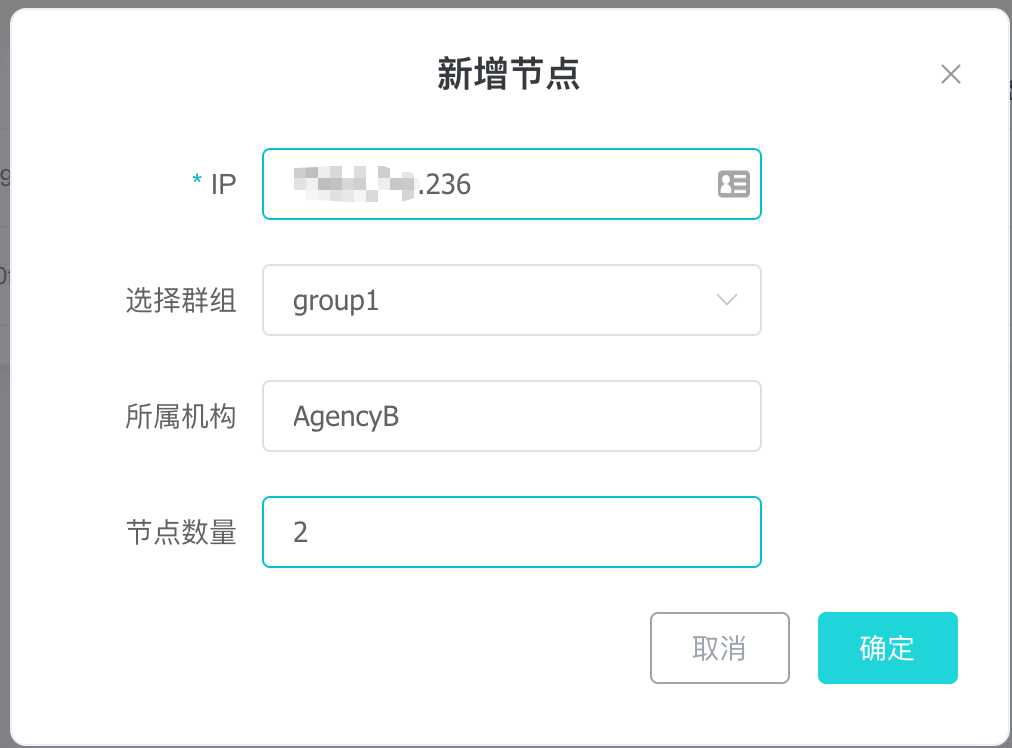
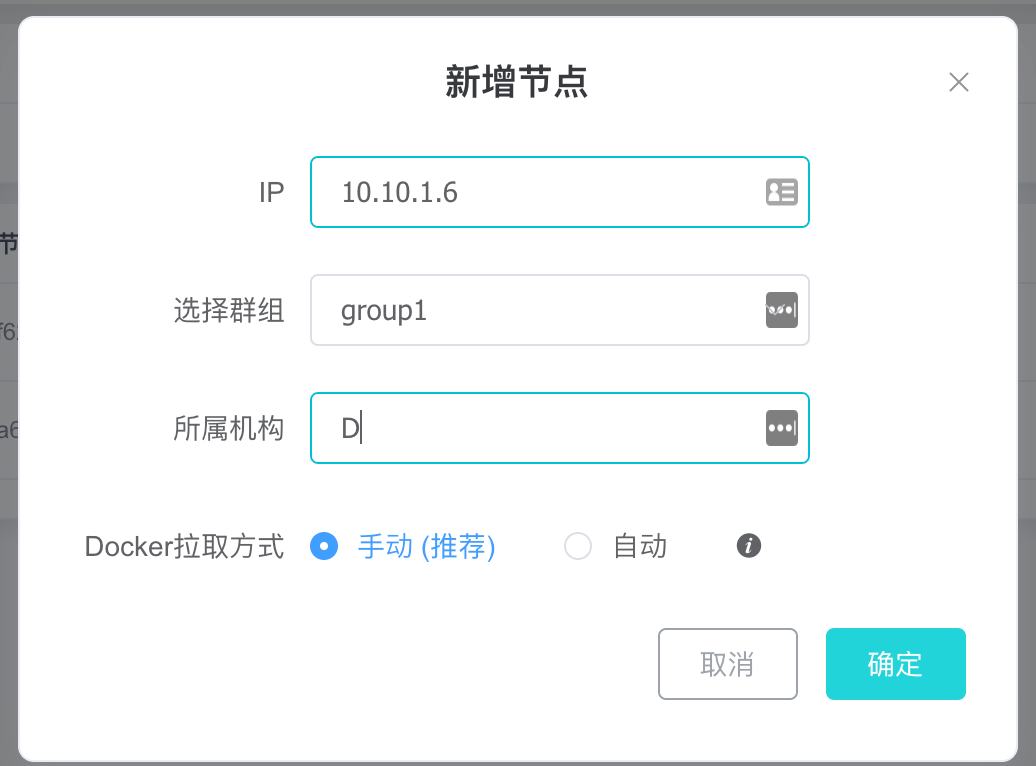
refact

diff --git a/docs/WeBASE-Install/visual_deploy.md b/docs/WeBASE-Install/visual_deploy.md
@@ -4,30 +4,103 @@
 
 1. 部署区块链底层服务；
 2. 新增，删除节点；
-3. 启动，停止节点
-4. 变更节点类型（共识，观察，游离）
-5. 群组和节点管理；
-6. 区块链版本升级；
-7. 删除区块链服务；
+3. 变更节点类型（共识，观察，游离）
+4. 启动，停止节点
+5. 群组和节点可视化管理；
+6. 重置区块链服务；
+
+### 环境准备
+
+在进行可视化部署之前，请按照部署要求，准备相应的部署环境。
+
+#### 主机数量
+当前可视化部署对主机数量，搭建一个 4 节点的区块链服务至少需要 5 台主机。
+
+其中一台主机部署签名服务(WeBASE-Sign)，节点管理平台(WeBASE-Web)和节点管理服务(WeBASE-Node-Manager)；
+
+剩余四台主机每台部署一个区块链节点服务。
+
+#### 操作系统要求
+由于在部署区块链底层节点（FISCO-BCOS）服务时，需要使用 Docker 服务，针对部署节点的主机需要选择合适的操作系统：
+
+| 操作系统 | 最低要求 |
+| ---- | -------- |
+| CentOS / RHEL | CentOS 7.3 |
+| Debian | Stretch 9  |
+| Ubuntu | Xenial 16.04 |
+
+#### 安装 Docker
+
+如果是云服务器，推荐使用**操作系统镜像模板**的方式创建主机。
+
+在一台主机上安装 Docker 后，对这个操作系统做一个镜像模板，然后通过这个模板镜像来初始化创建主机，这样新创建的主机就自带了 Docker 服务。
+
+安装 Docker 服务，请参考 [常见问题](#) 。
+
+#### SSH 免密登录
+
+在部署时，WeBASE-Node-Manager 服务会生成相应的配置文件，然后使用`scp` 命令通过 SSH 免密登录将配置文件发送到对应的主机。
+
+1. 配置 WeBASE-Node-Manager 主机到其它节点主机的 SSH 免密登录；
+
+2. 注意免密登录的账号权限，否则会造成创建文件目录，Docker 命令执行失败；
+
+##### SSH 免密登录配置
+
+* 使用 SSH 登录 WeBASE-Node-Manager 主机：`ssh root@[IP]`
+
+* 检查 `~/.ssh/` 目录是否已经存在 `id_rsa.pub` 公钥文件
+    * 如果存在，则进行下一步；
+    * 如果不存在，执行命令 `ssh-keygen`，然后直接两次回车即可生成（提示输入密码时，直接回车即可）；
+* 使用 `ssh-copy-id -o StrictHostKeyChecking=no -i ~/.ssh/id_rsa.pub root@[IP]` 命令，将公钥文件上传到需要免密登录的主机（替换 [IP] 为主机的 IP 地址），然后输入主机密码即可
+
+* 输出结果出现 `Number of key(s) added: 1` 结果，表示免密登录配置成功
+
+* 执行命令 `ssh -o StrictHostKeyChecking=no root@[IP]`，检查是否能成功登录主机
 
 
+#### 手动拉取镜像
+虽然可视化自动部署功能提供了自动从 Docker 仓库拉取镜像的功能，但是由于网络原因，拉取镜像的速度不仅很慢，同时很大概率会拉取失败。
 
-### 部署方式
-可视化部署主要包含两种部署方式：**单机部署**和**多机部署**；
+**为了保证部署过程顺利和快速完成，强烈推荐在部署前，手动拉取镜像，然后上传到部署节点服务的主机。**
 
-两种部署方式最大的区别在于**拷贝文件**和**操作节点**的方式不同。
+##### 手动拉取 Docker 镜像
 
-* **单机部署：**
-    * 指部署 WeBASE-Node-Manager 的主机和部署节点的主机是**同一台**；
-    * 使用 `cp` 命令拷贝文件；
-    * 本地调用 `docker command` 操作节点；
+手动拉取 Docker 镜像版本的方式有两种，**本地拉取过镜像**和**本地没有拉去过镜像**。
 
-* **多机部署：**
-    * 是指部署 WeBASE-Node-Manager 的主机和部署节点的主机是**多台**；
-    * 使用 `scp` 命令拷贝文件；
-    * 通过 SSH 远程登录主机后执行 `docker command` 命令操作节点；
+* 本地没有拉取过镜像
+    * 如果本地没有拉去过镜像，只能通过 `docker pull` 拉取
+    
+```Bash
+# 需要主机已经安装了 Docker 服务
+# 替换 {version} 为需要拉取的镜像版本
+docker pull fiscoorg/fisco-webase:{version}
+```
 
-### 实现原理
+* 本地已经拉取过镜像
+    * 如果本地某台主机已经存在镜像和对应的版本，可以通过将镜像压缩成一个 tar 文件，然后通过 `scp` 传输到相应主机，再解压 tar 文件即可；
+    
+```Bash
+# 保存 tar 文件
+# 替换 {version} 为需要拉取的镜像版本
+docker save -o fisco-webase.tar fiscoorg/fisco-webase:{version}
+
+# 传输到主机
+scp fisco-webase.tar root@[IP]:/root/
+
+# 解压 tar 文件
+docker lod -i fisco-webase.tar
+
+# 检查是否存在相应版本的镜像
+docker images -a |grep -i "fiscoorg/fisco-webase"
+``` 
+
+关于镜像版本，请参考：[https://hub.docker.com/r/fiscoorg/fisco-webase/tags](https://hub.docker.com/r/fiscoorg/fisco-webase/tags)
+
+其中以 -gm 结尾的标识国密版本。
+
+
+### 可视化部署实现原理
 可视化部署的实现原理如下：
 
 * WeBASE-Node-Manager 根据填写的主机，调用初始化脚本，通过 SSH 远程登录每台主机，初始化主机环境，包括安装 `Docker`，`wget`，`curl` 等服务；
@@ -42,81 +115,68 @@
 
 * 新增节点时，通过调用 `gen_node_cert.sh` 脚本根据机构的私钥生成节点的私钥和证书； 
 
-### 注意事项
-#### 兼容性
-* 可视化部署是 WeBASE 1.4.0 版本提供的功能，暂时不支持前向兼容。所以，如果需要体验可视化部署，只能部署新的区块链服务；
-* 由于可视化部署处于版本迭代中，所以在部署 **节点管理服务 WeBASE-Node-Manager**  时，需要使用 `dev-deploy` 代码分支；
-* 如果执行可视化部署时，有任何的问题，欢迎提交 issue 或者提交 PR；
-
-#### 操作系统
-由于在部署区块链底层节点（FISCO-BCOS）服务时，需要使用 Docker 服务，针对部署节点的主机需要选择合适的操作系统：
-
-| 操作系统 | 最低要求 |
-| ---- | -------- |
-| CentOS / RHEL | CentOS 7.3 |
-| Debian | Stretch 9  |
-| Ubuntu | Xenial 16.04 |
-
-#### 节点的最大部署数量
-* 采用单机部署，单机内存至少需要 **4GB 及以上**，并且部署**节点数量最大为 4 个；**
-
-* 采用多主机部署，一个运行节点需要占用大概 `0.6GB` 内存。**比如，一台 2G 内存的主机，最多只能部署 3 个节点；**
-
-#### SSH 免密登录
-**注意：仅仅是针对多机部署方式，如果采用单机部署，可忽略**
-
-在多机部署时，会使用 SSH 免密登录节点主机，所以需要在部署前完成如下配置：
-
-1. 配置 WeBASE-Node-Manager 主机到其它节点主机的 SSH 免密登录；
-
-2. 注意免密登录的账号权限，否则会造成创建文件目录失败，Docker 命令执行失败等；
-
-关于 SSH 密码登录配置，请参考：[SSH 免密登录主机配置](https://www.jianshu.com/p/079740a82623)
-
-#### 网络问题
-由于网络原因，在初始化主机安装 Docker 服务，拉取 Docker 镜像，`build_chain.sh` 从 Github 下载 tassl 国密包时，大概率会出现网络断开导致失败。
-
-**所以，为了保证部署过程顺利完成，建议优先参考[常见问题]()，手动进行部分操作。**
-
 ### 部署依赖服务
 
 #### 签名服务
 
 WeBASE-Sign 作为区块链的私钥管理服务，管理发送交易时所需要的私钥。
 
-在可视化的部署后，在对节点进行游离、共识和观察操作时（通过发送一笔交易实现），此时需要提供一个私钥来发送变更交易。所以需要部署一个 WeBASE-Sign 服务，来管理发送交易所需要的私钥账户。
+在可视化的部署后，在对节点进行游离、共识和观察操作时（通过发送一笔交易实现），需要提供一个私钥来发送变更交易。所以需要部署 WeBASE-Sign 服务，来管理发送交易所需要的私钥账户。
 
 * 参考 [签名服务 WeBASE-Sign 部署文档](../WeBASE-Sign/install.html#id1) 优先部署 WeBASE-Sign 服务。
-
->**注意：**
->
-> * 采用单机部署方式时，如果部署多个节点，节点的 WeBASE-Front 端口会从 `5002` 根据部署节点个数依次递增。而 WeBASE-Sign 默认监听在 `5004` 端口，所以当采用单机不是，超过 3 个节点时，会造成端口冲突，**建议采用单机部署时，修改 WeBASE-Sign 的默认监听地址为 6004**。
-
 
 #### 节点管理服务
 WeBASE-Node-Manager 是整个区块链节点的管理服务，同时，节点的部署也是通过 WeBASE-Node-Manager 来完成的。
 
-**注意：**
-1. 由于可视化部署的功能还处于迭代中，所以在使用 `git clone` 拉取了 WeBASE-Node-Manager 的仓库代码后，使用命令 `git checkout dev-deploy` 切换到 `dev-deploy` 分支。 
+参考 [节点管理服务 WeBASE-Node-Manager 部署文档](../WeBASE-Node-Manager/install.html#id1) 部署 WeBASE-Node-Manager 服务。
 
-2. 初始化数据库时，使用 `dev-deploy` 中的数据库初始化脚本。
+部署 WeBASE-Node-Manager 时，需要根据自己的场景修改配置文件 `WeBASE-Node-Manager/dis/conf/application.yml` 。配置主要包括：
 
-* 参考 [节点管理服务 WeBASE-Node-Manager 部署文档](../WeBASE-Node-Manager/install.html#id1) 部署 WeBASE-Node-Manager 服务。
+* 数据库 IP，端口，数据库名，访问账号和密码
+* 配置签名服务 WeBASE-Sign 的访问地址，默认端口：`5004`
+* 部署区块链服务时，每个节点在主机上存放配置和数据的目录，默认：`/opt/fisco`
+* SSH 免密账号和密码，默认：`root` 和 `22`
+* 部署方式
+    * 0 表示兼容以前先部署区块链服务和 WeBASE-Front 前置服务后，手动添加到 WeBASE-Node-Manager 管理服务；
+    * 1 表示使用可视化部署的方式来部署节点服务。
+* 加密版本，在执行 WeBASE-Node-Manager **数据库初始化脚本时**就确定了当前的 WeBASE-Node-Manager 是使用哪种加密方式
+    * 0: 非国密
+    * 1: 国密
+
+具体的相关配置，可以参考下面的配置说明，在配置完成后，重启节点管理服务（WeBASE-Node-Manager）。
+
+```yaml
+# 修改数据库配置
+spring:
+  datasource:
+    # 数据库 IP，端口，数据库名
+    url: jdbc:mysql://[IP]:3306/webasenodemanager?serverTimezone=GMT%2B8&useUnicode=true&characterEncoding=utf-8&zeroDateTimeBehavior=convertToNull
+    # 数据库访问账号
+    username: "xxx"
+    # 数据库访问密码
+    password: "xxx"
+
+constant:
+  # 1.4.0 visual deploy
+  # WeBASE-Sign 访问地址，前面部署的签名服务的访问地址
+  webaseSignAddress: "127.0.0.1:5004"
+  # 部署区块链服务的节点主机存放节点配置文件和数据的目录
+  rootDirOnHost: "/opt/fisco"
+  # SSH 免密登录的账号
+  sshDefaultUser: root
+  # SSH 服务的端口，默认 22
+  sshDefaultPort: 22
+  # 部署方式：0, 先使用 build_chain.sh 部署链和 WeBASE-Front 服务，然后手动添加 ; 1, 使用可视化部署
+  deployType: 1
+
+sdk:
+  # 加密类型：0: 非国密;  1: 国密
+  # 根据执行的数据库初始化脚本类型来设置
+  encryptType: 0
+```
 
 #### 节点管理平台
 WeBASE-Web 是节点的管理页面，提供节点管理服务的界面化操作。
-
-
-**注意：**
-1. 由于可视化部署的功能还处于迭代中，所以在使用 `git clone` 拉取了 WeBASE-Web 的仓库代码后，使用命令 `git checkout dev-deploy` 切换到 `dev-deploy` 分支；
-
-2. 如果 WeBASE-Sign 监听地址不是默认的 `5004`，需要修改 WeBASE-Node-Manager 中 application.yml 配置文件 中的`webaseSignAddress` 配置；
-
-```yml
-#constants
-constant:
-  webaseSignAddress: "127.0.0.1:新的端口"
-```
 
 * 参考 [节点管理平台 WeBASE-Web 部署文档](../WeBASE-Web/install.html#id1) 部署 WeBASE-Web 服务。
 
@@ -133,8 +193,9 @@ http://{deployIP}:{webPort}
 #### 部署操作
 
 **提示：**
-> 1. 由于网络问题，建议优先参考[常见问题](#)手动进行 Docker 安装和 镜像拉取后再进行部署操作，防止由于网络原因导致部署失败；
+> 1. 由于网络问题，建议优先参考[常见问题](#)手动进行 Docker 安装以及参考[手动拉取 Docker 镜像](#) 后再进行部署操作，防止由于网络原因导致部署失败；
 > 2. 如果部署**国密**版本，建议参考常见问题，手动下载 TASSL 下载库；
+> 3. 如果 WeBASE-Node-Manager 的 `application.yml` 中的 `deployType` 配置为 0，则会要求添加前置服务。只有当 `deployType` 配置为 1 时，才会进入可视化部署界面；
 
 打开节点管理平台页面后，登录后修改密码，默认进入**节点管理页面**：
 
@@ -142,38 +203,40 @@ http://{deployIP}:{webPort}
 
 * 点击部署，打开部署界面：
 
+具体的配置说明，可以将鼠标移动到配置的**感叹号**上，展示相应的提示信息。
 ![visual-deploy-ui](../../images/WeBASE-Console-Suit/visual-deploy/visual-deploy-ui.png)
 
 **示例：**
 
 ![visual-deploy-demo](../../images/WeBASE-Console-Suit/visual-deploy/visual-deploy-demo.png)
     
-* 点击开始部署后，等待区块链服务部署完成。
+* 点击开始部署后，在上面的链信息列，可以查看到当前链的状态已经部署链的进度；
 
 * 根据进度条，在部署完成后，如图：
     
 ![visual-deploy-finish](../../images/WeBASE-Console-Suit/visual-deploy/visual-deploy-finish.png)
 
 **提示：**
-1. **节点数量**： 每个群组**至少部署 2 个节点；**
-2. **机构名**： 必须为英文和数字，不能含有空格和汉字；
-3. **群组**： 必须为大于 0 的数字；
-4. **部署过程等待时间可能较长**：可视化部署会更新主机系统，安装 Docker 服务，拉取 Docker 镜像服务，请耐心等待；
+1. **机构名**： 必须为英文和数字，不能含有空格和汉字；
+2. **Docker 拉取方式：** 建议参考[手动拉取 Docker 镜像](#) 进行手动拉取镜像的操作；
 
 #### 新增节点
 节点新增，也称作区块链扩容，指在已有的区块链服务中，增加新的节点。
 
+在新增节点时，需要输入一个新的 IP 主机的地址。
+
 **提示：**
-> 1. 由于网络问题，建议优先参考[常见问题](#)手动进行 Docker 安装和 镜像拉取后再进行部署操作，防止由于网络原因导致部署失败；
+> 1. 新主机也需要配置 SSH 免密登录；
+> 2. 建议参考[手动拉取 Docker 镜像](#) 在新添加主机上进行手动拉取镜像的操作后再执行添加节点的操作；
 
 新增的节点，**默认处于游离状态**，需要手动**变更节点为共识或者观察节点**后，新节点开始从原有节点同步区块数据。
 
 **具体操作：**
 
 1. 点击**新增节点**按钮；
-2. 输入主机 IP 地址，如果是新的 IP 地址，需要输入机构名称；
+2. 输入主机 IP 地址和机构名称（可以是已经存在的机构或者新机构）；
 3. 选择群组；
-4. 输入新增节点数量；
+4. 选择 DOcker 拉取方式；
 5. 点击确认，即可完成增加节点操作；
 
 ![visual-deploy-add-node](../../images/WeBASE-Console-Suit/visual-deploy/visual-deploy-add-node.png)
@@ -198,21 +261,23 @@ http://{deployIP}:{webPort}
 
 ![visual-deploy-add-user-key](../../images/WeBASE-Console-Suit/visual-deploy/visual-deploy-add-user-key.png)
 
+#### 重置区块链
+重置区块链，当部署出现异常，或者不可预期的错误时，可以使用重置功能，重置已经区块链服务，然后进行重新部署。
 
-#### 升级区块链
-升级区块链，指升级整个区块链底层服务的版本。
+如果要重置当前区块链，点击**重置**按钮，等待重置完成。
 
-1. 点击升级节点；
-2. 点击更新按钮，获取最新的 Docker 镜像版本；
-3. 选择新版本，点击确认；
-4. 等待区块链完成升级；
+当执行重置操作时，并不会真正物理删除节点的数据，而是使用 `mv` 命令，将区块链的整个数据移动到临时目录。
 
-#### 删除区块链
-删除区块链，当部署出现异常，或者不可预期的错误时，可以使用删除功能，删除已经区块链服务，然后重新部署即可。
+* WeBASE-Node-Manager 的临时目录
+    * WeBASE-Node-Manager 服务的 `WeBASE-Node-Manager/dist/NODES_ROOT_TMP` 目录中存放了所有重置节点的节点配置文件
+    * **不包含**具体的节点数据文件
+    * 文件名格式 `default_chain-YYYYMMDD_HHmmSS（删除时间）`：default_chain-20200722_102631
+    
+* 节点主机中的临时目录
+    * `WeBASE-Node-Manager/dist/conf/application.yml` 配置文件中 `rootDirOnHost` 配置目录下的 `deleted-tmp` 目录
+    * 包含了**节点的所有文件**配置文件和节点数据文件
+    * 文件名格式 `default_chain-YYYYMMDD_HHmmSS（删除时间）`：default_chain-20200722_102631
 
-如果要删除当前区块链，点击右上角**删除**按钮，等待删除完成后，会自动退出到登录页面。
-
-当执行删除操作时，并不会真正物理删除节点的数据，而是使用 `mv` 命令，将区块链的整个数据移动到临时目录（在部署时配置的目录同级目录）。
 
 ### 常见问题
 #### Docker 安装方法
@@ -249,37 +314,6 @@ wget https://download.docker.com/linux/centos/8/x86_64/stable/Packages/container
 yum localinstall containerd.io-1.2.13-3.2.el7.x86_64.rpm 
 
 ```
-
-#### Docker 镜像拉取失败
-由于网络原因，Docker 镜像大概率会拉取失败，导致部署或者增加节点失败。所以，强烈推荐通过手动的方式拉取 Docker 镜像到节点主机。
-
-手动拉取 Docker 镜像版本的方式有两种：
-
-* 本地没有镜像
-    * 如果本地没有镜像，只能通过 `docker pull` 拉取
-    
-```Bash
-# 替换 {version} 为部署页面下拉框中的镜像版本
-docker pull fiscoorg/bcos-front:{version}
-```
-
-* 本地已经拉取过镜像
-    * 如果本地已有镜像，可以通过将镜像压缩成一个 tar 文件，然后通过 `scp` 传输到相应主机，再解压 tar 文件即可；
-    
-```Bash
-# 保存 tar 文件
-# 替换 {version} 为部署页面下拉框中的镜像版本
-docker save -o bcos-front.tar fiscoorg/bcos-front:{version}
-
-# 传输到主机
-scp bcos-front.tar root@[IP]:/root/
-
-# 解压 tar 文件
-docker lod -i bcos-front.tar
-
-# 检查是否存在相应版本的镜像
-docker images -a |grep -i  -i "fiscoorg/bcos-front"
-``` 
 
 #### 部署国密版本，手动下载 TASSL 
 
